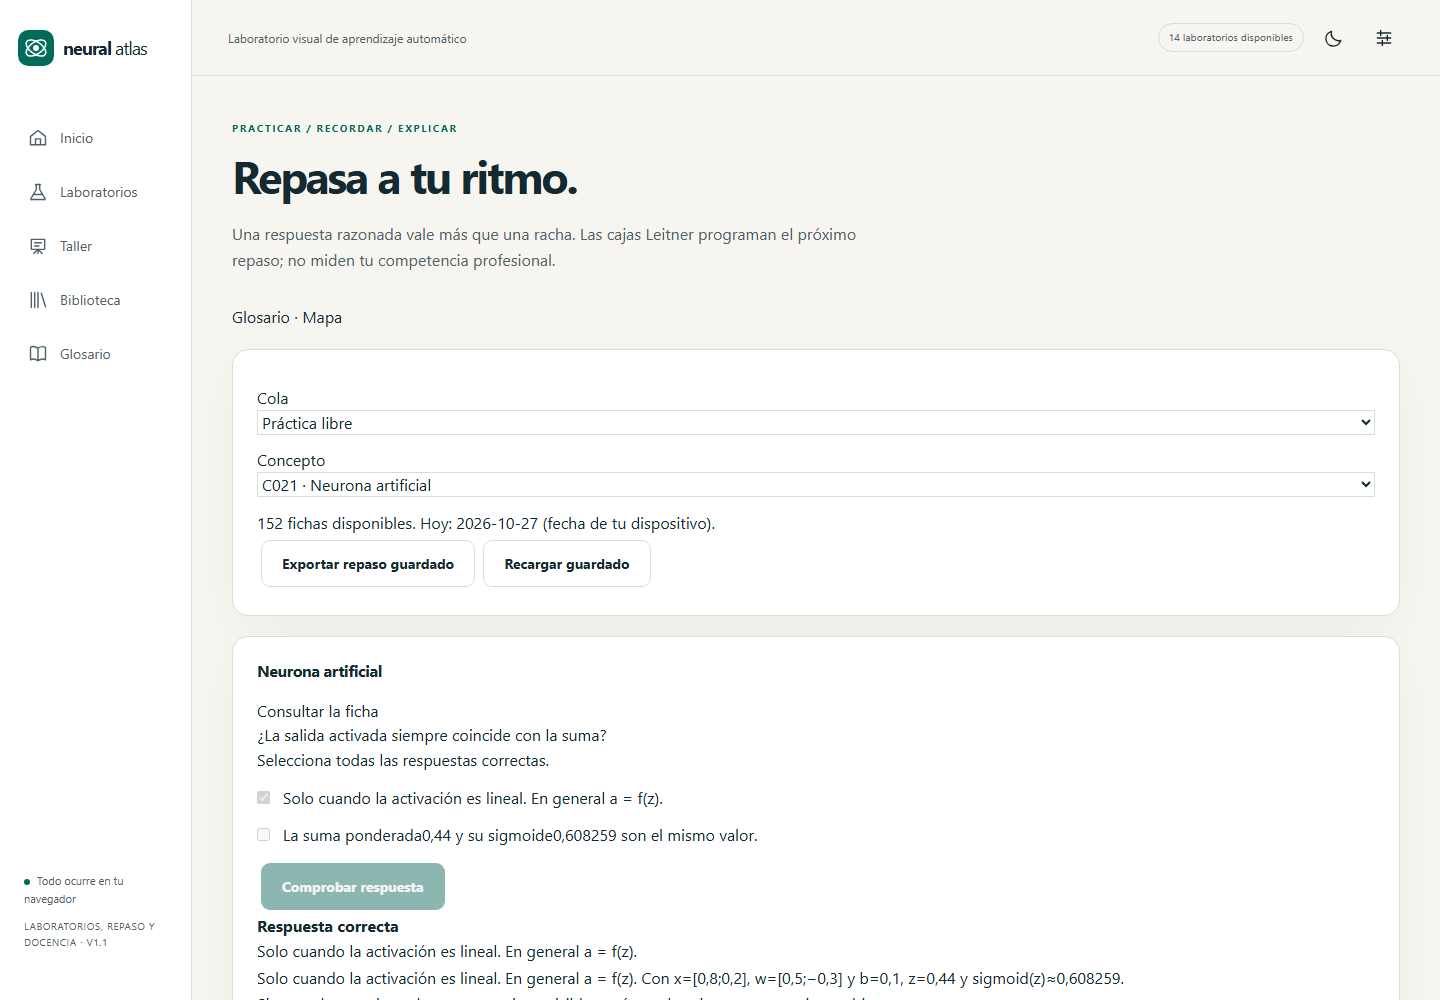
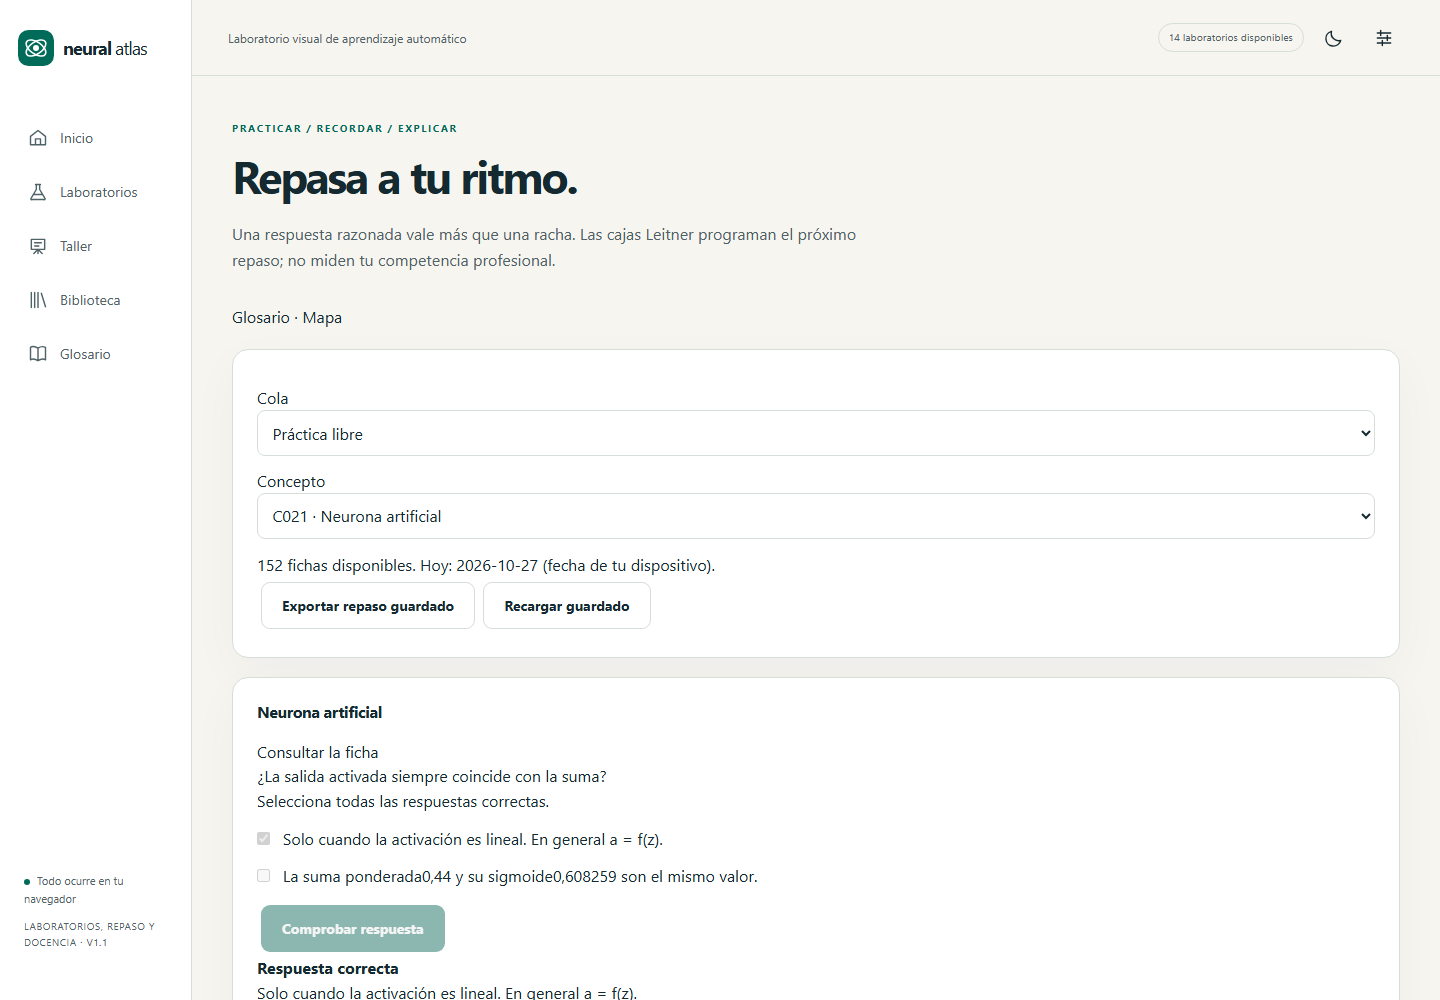
test(release): repeat mobile and import regressions before full browser gate

Changed region(s): [[0.1562, 0.651, 0.7812, 1.0], [0.1562, 0.403, 0.5, 0.62]]

diff --git a/docs/52-cierre-tecnico-v11.md b/docs/52-cierre-tecnico-v11.md
@@ -56,12 +56,18 @@ Una versión nueva espera sin `skipWaiting` automático. Activación explícita 
 
 El scope es `/neural-atlas/`. Se limpian únicamente cachés con el prefijo de estáticos de Neural Atlas. IndexedDB permanece separado. Se mantiene la advertencia del diseño: compartir origen en GitHub Pages comparte cuota y acceso potencial; los nombres no proporcionan aislamiento de seguridad.
 
+## Correcciones verificadas durante el cierre
+
+La puerta de CI identificó un desbordamiento de los selectores de archivo con fuentes nativas de Linux, además de una carrera al retirar y volver a importar un paquete. Se corrigen los tamaños intrínsecos con width/max-width/min-width explícitos, controles de texto fluidos y botones ajustables, sin ocultar el desbordamiento de la página. Los estilos compartidos de aprendizaje se separan en `styles/learning.css`.
+
+La retirada mantiene la ficha visible y la importación bloqueada hasta que termina la transacción. La lectura de archivos también bloquea acciones incompatibles; cancelar o navegar invalida las respuestas tardías. Dos pruebas nuevas mantienen una escritura y una lectura pendientes de forma controlada. CI repite tres veces las regresiones críticas en Chromium/WebKit antes de ejecutar toda la batería de tres navegadores; no se reducen los umbrales ni se aceptan casos flaky.
+
 ## Evidencia local de la entrega
 
-- 582 pruebas unitarias y de integración, en 70 archivos, superadas.
-- Cobertura medida: 92,40% líneas, 91,62% sentencias, 90,78% ramas y 86,20% funciones; umbrales de cada capa superados.
+- 584 pruebas unitarias y de integración, en 70 archivos, superadas.
+- Cobertura medida: 92,42% líneas, 91,62% sentencias, 90,78% ramas y 86,21% funciones; umbrales de cada capa superados.
 - Catálogo de navegador: 390 casos, 130 por Chromium/Firefox/WebKit, sujeto a la puerta completa de CI antes de publicar.
-- Build: 120 recursos offline, aproximadamente 724 KiB gzip; entrada inicial 62,35 KiB JS y 11,93 KiB CSS gzip, dentro de presupuesto.
+- Build: 120 recursos offline, aproximadamente 724 KiB gzip; entrada inicial 62,34 KiB JS y 12,06 KiB CSS gzip, dentro de presupuesto.
 - 55 documentos, 369 enlaces locales, 30 fuentes Mermaid y 73 diagramas incluidos en Markdown validados en el momento de la entrega.
 - Smoke de producto completo en la subruta local superado, incluido el paquete docente con el experimento activo de dos actualizaciones. El smoke público forma parte obligatoria del despliegue.
 
